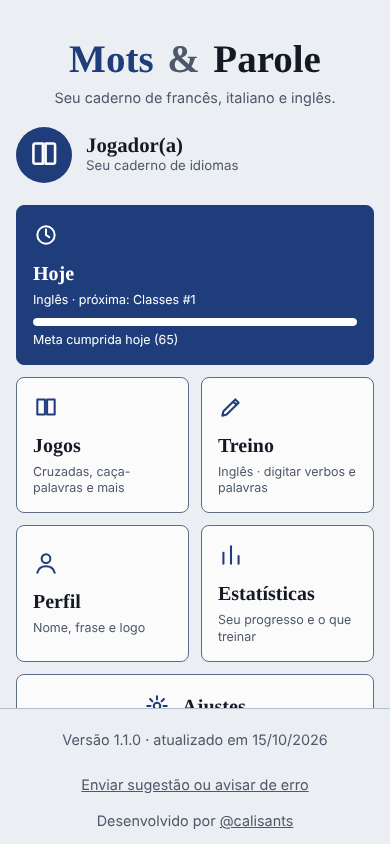
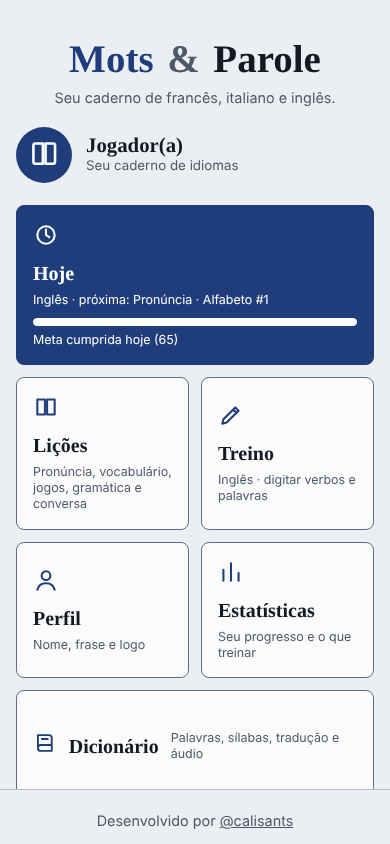
Treino: revisar palavras que errei; menu Lições; Hoje segue a trilha de aprendizado (revisão, palavras fracas, próxima lição)
Claude-Session: https://claude.ai/code/session_016zLFZSsmFk4gFpDYDLNisR

diff --git a/index.html b/index.html
@@ -359,7 +359,7 @@ svg{display:block}
       </div>
       <div class="tiles">
         <button type="button" class="tile today" id="go-today"><svg viewBox="0 0 24 24" width="26" height="26" fill="none" stroke="currentColor" stroke-width="1.9" stroke-linecap="round" stroke-linejoin="round" aria-hidden="true"><circle cx="12" cy="12" r="8"/><path d="M12 7v5l3 2"/></svg><b>Hoje</b><small id="today-sub">Revisão e uma página nova</small><span class="gbar" aria-hidden="true"><i id="goal-fill"></i></span><small id="goal-txt"></small></button>
-        <button type="button" class="tile" id="go-games"><svg viewBox="0 0 24 24" width="26" height="26" fill="none" stroke="currentColor" stroke-width="1.9" stroke-linecap="round" stroke-linejoin="round" aria-hidden="true"><path d="M4 5h7v14H4zM13 5h7v14h-7z"/></svg><b>Jogos</b><small>Cruzadas, caça-palavras e mais</small></button>
+        <button type="button" class="tile" id="go-games"><svg viewBox="0 0 24 24" width="26" height="26" fill="none" stroke="currentColor" stroke-width="1.9" stroke-linecap="round" stroke-linejoin="round" aria-hidden="true"><path d="M4 5h7v14H4zM13 5h7v14h-7z"/></svg><b>Lições</b><small>Pronúncia, vocabulário, jogos, gramática e conversa</small></button>
         <button type="button" class="tile" id="go-train"><svg viewBox="0 0 24 24" width="26" height="26" fill="none" stroke="currentColor" stroke-width="1.9" stroke-linecap="round" stroke-linejoin="round" aria-hidden="true"><path d="M4 20l4-1 11-11-3-3L5 16zM14 7l3 3"/></svg><b>Treino</b><small id="train-sub">Digitar verbos e palavras</small></button>
         <button type="button" class="tile" id="go-profile"><svg viewBox="0 0 24 24" width="26" height="26" fill="none" stroke="currentColor" stroke-width="1.9" stroke-linecap="round" stroke-linejoin="round" aria-hidden="true"><circle cx="12" cy="8" r="4"/><path d="M4 21c1-4 4-6 8-6s7 2 8 6"/></svg><b>Perfil</b><small>Nome, frase e logo</small></button>
         <button type="button" class="tile" id="go-stats"><svg viewBox="0 0 24 24" width="26" height="26" fill="none" stroke="currentColor" stroke-width="1.9" stroke-linecap="round" stroke-linejoin="round" aria-hidden="true"><path d="M5 20V10M12 20V4M19 20v-7"/></svg><b>Estatísticas</b><small>Seu progresso e o que treinar</small></button>
@@ -709,7 +709,7 @@ svg{display:block}
 <div id="toast" role="status" aria-live="polite" hidden></div>
 
 <script>
-const APP_REL={v:"1.4.0",d:"2026-10-17"};
+const APP_REL={v:"1.5.0",d:"2026-10-17"};
 
 
 const RAW={
@@ -1846,7 +1846,7 @@ function renderIndex(){
   const V=curVol();
   if(S.fGame!=="all"&&!V.types.some(t=>t[0]===S.fGame))S.fGame="all";
   $("#vol-title").textContent=LNAME[S.lang]+" · "+V.title;
-  $("#f-game").innerHTML='<option value="all">Todos os jogos</option>'+V.types.map(t=>'<option value="'+t[0]+'">'+esc(t[2])+"</option>").join("");
+  $("#f-game").innerHTML='<option value="all">Todos os tipos de lição</option>'+V.types.map(t=>'<option value="'+t[0]+'">'+esc(t[2])+"</option>").join("");
   $("#f-game").value=S.fGame;
   const num={};V.pages.forEach((p,i)=>{num[p.id]=i+1;});
   $("#f-theme").value=S.fTheme;$("#f-level").value=S.fLevel;
@@ -2788,7 +2788,7 @@ $("#gm-next").addEventListener("click",()=>{
   if(gm.review){
     sfx("done");
     openSheet("Revisão concluída",'<p class="help">'+(n-gm.miss)+" de "+n+" certas de primeira.</p>"+goalLine+
-      '<button type="button" class="btn primary wide" id="rv-next" style="margin-bottom:10px">Fazer a próxima página nova</button>'+list,true);
+      '<button type="button" class="btn primary wide" id="rv-next" style="margin-bottom:10px">Fazer a próxima lição</button>'+list,true);
     setStatus("#gm-status","Revisão concluída.","ok");return;
   }
   markDone();sfx("done");
@@ -2852,11 +2852,9 @@ function dueItems(max){
     const r=rvVocab(k);return {type:"vocab",id:r.id,it:vocabItem(r.e)};
   });
 }
-function nextNewPage(){return VOLUME4.pages.find(p=>!S.done[S.lang+":"+p.id])||null;}
 function renderToday(){
   const el=$("#today-sub");if(!el)return;
-  const d=dueCount(),np=nextNewPage();
-  el.textContent=LNAME[S.lang]+" · "+(d?d+" para revisar":(np?"próxima: "+VOLUME4.types.find(t=>t[0]===np.type)[2]+" #"+np.n:"tudo em dia"));
+  el.textContent=LNAME[S.lang]+" · "+planText();
   const n=dayN();
   $("#goal-fill").style.width=Math.min(100,Math.round(100*n/S.goal))+"%";
   $("#goal-txt").textContent=n>=S.goal?"Meta cumprida hoje ("+n+")":"Meta de hoje: "+n+" de "+S.goal;
@@ -2896,20 +2894,23 @@ function drillWord(){
 function startDrill(kind,tid){
   lastDrill={kind:kind,tid:tid};
   P={id:"treino",type:"treino",n:0};
-  showGame("Treino",LNAME[S.lang]+" · "+(kind==="v"?"verbos: "+DRILL.labels[S.lang][tid]:"palavras: português → "+LNAME[S.lang]));
+  showGame("Treino",LNAME[S.lang]+" · "+(kind==="v"?"verbos: "+DRILL.labels[S.lang][tid]:kind==="r"?"palavras que você errou":"palavras: português → "+LNAME[S.lang]));
   const items=[];
-  for(let i=0;i<10;i++)items.push(kind==="v"?drillConj(tid):drillWord());
+  if(kind==="r"){sh0(weakWords().slice(0,15)).slice(0,10).forEach(e=>{const it=vocabItem(e);it._force=true;items.push(it);});}
+  else for(let i=0;i<10;i++)items.push(kind==="v"?drillConj(tid):drillWord());
+  if(!items.length){openSheet("Nenhuma palavra errada","<p class=\"help\">Você não tem palavras erradas em "+esc(LNAME[S.lang])+" no momento. Continue as lições e as palavras que você errar aparecem aqui.</p>",false);return;}
   gm.items=items;gm.ids=items.map((_,i)=>"d|"+i);gm.types=items.map(()=>"drill");gm.review=false;gm.drill=true;gm.i=0;gm.miss=0;gm.open=false;
   loadGram();
 }
 STAGES.treino="#gstage";DOCKS.treino="gram";GAMEFN.treino=()=>lastDrill?startDrill(lastDrill.kind,lastDrill.tid):openTrainMenu();
 function openTrainMenu(){
-  const L=DRILL.labels[S.lang];
+  const L=DRILL.labels[S.lang],nw=weakWords().length;
   openSheet("Treino de "+LNAME[S.lang],
     '<p class="help">Idioma do treino (é o mesmo idioma do app):</p>'+
     '<div class="seg" role="group" aria-label="Idioma do treino" style="margin-bottom:12px">'+Object.keys(LNAME).map(l=>'<button type="button" data-trainlang="'+l+'" aria-pressed="'+(l===S.lang)+'">'+LNAME[l]+"</button>").join("")+"</div>"+
-    '<p class="help">Cada rodada tem 10 itens diferentes. Sem regra na tela: é para testar o que você já sabe. Erros de palavras entram na revisão.</p>'+
+    '<p class="help">Cada rodada tem 10 itens. Sem regra na tela: é para testar o que você já sabe. «Revisar palavras que errei» usa as palavras em que você errou mais do que acertou; cada acerto aqui as tira da lista.</p>'+
     Object.keys(L).map(t=>'<button type="button" class="btn wide" data-train="v|'+esc(t)+'" style="margin-bottom:8px">Verbos em '+esc(LNAME[S.lang])+": "+esc(L[t])+"</button>").join("")+
+    '<button type="button" class="btn wide" data-train="r" style="margin-bottom:8px"'+(nw?"":" disabled")+'>Revisar palavras que errei ('+nw+")</button>"+
     '<button type="button" class="btn wide" data-train="w" style="margin-bottom:8px">Palavras: português → '+esc(LNAME[S.lang])+"</button>",false);
 }
 function trainSub(){const e=$("#train-sub");if(e)e.textContent=LNAME[S.lang]+" · digitar verbos e palavras";}
@@ -2918,15 +2919,16 @@ $("#sheet-in").addEventListener("click",e=>{
   const tl=e.target.closest("[data-trainlang]");
   if(tl){S.lang=tl.dataset.trainlang;lastDrill=null;save();syncPrefs();renderIndex();trainSub();openTrainMenu();return;}
   const t=e.target.closest("[data-train]");
-  if(t){closeSheet();const v=t.dataset.train;if(v==="w")startDrill("w");else startDrill("v",v.slice(2));return;}
+  if(t){closeSheet();const v=t.dataset.train;if(v==="w")startDrill("w");else if(v==="r")startDrill("r");else startDrill("v",v.slice(2));return;}
   if(e.target.closest("#drill-more")){closeSheet();GAMEFN.treino();return;}
-  if(e.target.closest("#rv-next")){closeSheet();const np=nextNewPage();if(np){S.vol=4;S.fGame="all";save();startPage(np.id);}else go("home");}
+  if(e.target.closest("#rv-next")){closeSheet();const np=nextNewPage();if(np)startLesson(np);else go("home");}
 });
 function startToday(){
-  if(dueCount())return startReview();
-  const np=nextNewPage();
-  if(!np){openSheet("Tudo em dia","<p class=\"help\">Você concluiu todas as páginas de gramática em "+esc(LNAME[S.lang])+" e não há nada para revisar. Experimente o Treino, que gera itens novos a cada rodada.</p>",false);return;}
-  S.vol=4;S.fGame="all";save();startPage(np.id);
+  const pl=todayPlan();
+  if(pl.kind==="review")return startReview();
+  if(pl.kind==="weak")return startDrill("r");
+  if(pl.kind==="lesson")return startLesson(pl.ref);
+  openSheet("Tudo em dia","<p class=\"help\">Você concluiu todas as lições da trilha em "+esc(LNAME[S.lang])+" e não há nada para revisar. Experimente o Treino, que gera itens novos a cada rodada.</p>",false);
 }
 $("#go-today").addEventListener("click",startToday);
 /* meta diária nos ajustes */
@@ -3130,6 +3132,70 @@ function dictOpen(){
 $("#go-dict").addEventListener("click",dictOpen);
 $("#dict-lang").addEventListener("click",e=>{const b=e.target.closest("[data-dictlang]");if(!b)return;S.lang=b.dataset.dictlang;save();syncPrefs();dictOpen();});
 $("#dict-q").addEventListener("input",dictRender);
+
+/* ===== Trilha de aprendizado: o que "Hoje" sugere vem do progresso e dos erros da pessoa, não do último jogo aberto =====
+   Prioridade: 1) revisão espaçada vencida; 2) muitas palavras em que errou mais do que acertou; 3) próxima lição da trilha.
+   A trilha vai do mais fácil ao mais difícil: pronúncia → por grupo de temas (vocabulário do tema → jogos do tema) → gramática → conversação.
+   Lições de vocabulário cujas palavras a pessoa já domina (80%+ com 2 acertos ou mais) são puladas. */
+function wordsOf(p){
+  const arr=(VOCAB[S.lang]&&VOCAB[S.lang][p.cat])||[],K=p.K||2,n=arr.length;
+  return arr.slice(Math.round((p.part-1)*n/K),Math.round(p.part*n/K));
+}
+const VOCLESSON=["conheca","reco","completar","embaralhar","escreva"];
+let _path=null;
+function lessonPath(){
+  if(_path)return _path;
+  const M={};VOLUMES.forEach(v=>{M[v.id]=new Map(v.pages.map(p=>[p.id,p]));});
+  const out=[],add=(vid,id,extra)=>{const p=M[vid].get(id);if(p)out.push(Object.assign({vol:vid,page:p},extra||{}));};
+  VOLUME2.pages.forEach(p=>out.push({vol:2,page:p,audio:true}));
+  const gids=GROUPS.map(g=>g[0]).filter(g=>CATS.some(c=>c[2]===g));
+  const chunk=(arr,i,n)=>arr.slice(Math.round(i*arr.length/n),Math.round((i+1)*arr.length/n));
+  const gram=VOLUME4.pages,conv=[];
+  VOLUME3.pages.filter(p=>p.type==="frases").forEach(p=>conv.push(p));
+  const pairs=VOLUME3.pages.filter(p=>p.type==="sentence").map(s=>[s,M[3].get("resposta-"+s.n)]);
+  pairs.forEach(pr=>pr.forEach(p=>{if(p)conv.push(p);}));
+  gids.forEach((g,gi)=>{
+    CATS.filter(c=>c[2]===g).forEach(c=>{
+      VOLUME5.pages.filter(p=>p.cat===c[0]&&p.type==="conheca").forEach(p=>out.push({vol:5,page:p,voc:true}));
+      ["reco","completar","embaralhar","escreva"].forEach(t=>[1,2].forEach(k=>add(5,t+"-"+c[0]+"-"+k,{voc:true})));
+      add(1,"odd-"+c[0]);add(1,"search-"+c[0]+"-easy");add(1,"cross-"+c[0]+"-easy");
+    });
+    add(1,"connect-"+g+"-easy-1");
+    chunk(gram,gi,gids.length).forEach(p=>out.push({vol:4,page:p}));
+    chunk(conv,gi,gids.length).forEach(p=>out.push({vol:3,page:p}));
+  });
+  return(_path=out);
+}
+function pageMastered(p){
+  const sk=S.sk[S.lang]||{},ws=wordsOf(p);
+  if(!ws.length)return false;
+  const ok=ws.filter(e=>{const a=sk[e.w.toLowerCase()];return a&&a[0]>=2&&a[0]>a[1];}).length;
+  return ok/ws.length>=.8;
+}
+const canHear=()=>"speechSynthesis" in window;
+function nextNewPage(){
+  return lessonPath().find(r=>!S.done[S.lang+":"+r.page.id]&&!(r.audio&&!canHear())&&!(r.voc&&pageMastered(r.page)))||null;
+}
+function weakWords(){
+  const sk=S.sk[S.lang]||{},ix=vIdx()[S.lang],out=[];
+  for(const k in sk){const a=sk[k];if(a[1]>a[0]&&ix[k])out.push([a[1]-a[0],ix[k]]);}
+  return out.sort((x,y)=>y[0]-x[0]).map(x=>x[1]);
+}
+const WEAK_MIN=8;
+function todayPlan(){
+  const d=dueCount();if(d)return{kind:"review",n:d};
+  const w=weakWords().length;if(w>=WEAK_MIN)return{kind:"weak",n:w};
+  const r=nextNewPage();return r?{kind:"lesson",ref:r}:{kind:"done"};
+}
+function lessonName(r){
+  const V=VOLUMES.find(v=>v.id===r.vol),t=V.types.find(x=>x[0]===r.page.type);
+  return V.title.replace(/^Volume \d · /,"")+" · "+(t?t[2]:"")+" #"+r.page.n+(r.page.sub?" · "+r.page.sub:"");
+}
+function planText(){
+  const p=todayPlan();
+  return p.kind==="review"?p.n+" para revisar":p.kind==="weak"?"reforçar "+p.n+" palavras que errou":p.kind==="lesson"?"próxima: "+lessonName(p.ref):"tudo em dia";
+}
+function startLesson(r){S.vol=r.vol;S.fGame="all";S.fTheme="all";save();startPage(r.page.id);}
 
 /* ===== Início ===== */
 buildSettings();applyTheme();buildKb();go("home");

diff --git a/src/p10.js b/src/p10.js
@@ -54,11 +54,9 @@ function dueItems(max){
     const r=rvVocab(k);return {type:"vocab",id:r.id,it:vocabItem(r.e)};
   });
 }
-function nextNewPage(){return VOLUME4.pages.find(p=>!S.done[S.lang+":"+p.id])||null;}
 function renderToday(){
   const el=$("#today-sub");if(!el)return;
-  const d=dueCount(),np=nextNewPage();
-  el.textContent=LNAME[S.lang]+" · "+(d?d+" para revisar":(np?"próxima: "+VOLUME4.types.find(t=>t[0]===np.type)[2]+" #"+np.n:"tudo em dia"));
+  el.textContent=LNAME[S.lang]+" · "+planText();
   const n=dayN();
   $("#goal-fill").style.width=Math.min(100,Math.round(100*n/S.goal))+"%";
   $("#goal-txt").textContent=n>=S.goal?"Meta cumprida hoje ("+n+")":"Meta de hoje: "+n+" de "+S.goal;
@@ -98,20 +96,23 @@ function drillWord(){
 function startDrill(kind,tid){
   lastDrill={kind:kind,tid:tid};
   P={id:"treino",type:"treino",n:0};
-  showGame("Treino",LNAME[S.lang]+" · "+(kind==="v"?"verbos: "+DRILL.labels[S.lang][tid]:"palavras: português → "+LNAME[S.lang]));
+  showGame("Treino",LNAME[S.lang]+" · "+(kind==="v"?"verbos: "+DRILL.labels[S.lang][tid]:kind==="r"?"palavras que você errou":"palavras: português → "+LNAME[S.lang]));
   const items=[];
-  for(let i=0;i<10;i++)items.push(kind==="v"?drillConj(tid):drillWord());
+  if(kind==="r"){sh0(weakWords().slice(0,15)).slice(0,10).forEach(e=>{const it=vocabItem(e);it._force=true;items.push(it);});}
+  else for(let i=0;i<10;i++)items.push(kind==="v"?drillConj(tid):drillWord());
+  if(!items.length){openSheet("Nenhuma palavra errada","<p class=\"help\">Você não tem palavras erradas em "+esc(LNAME[S.lang])+" no momento. Continue as lições e as palavras que você errar aparecem aqui.</p>",false);return;}
   gm.items=items;gm.ids=items.map((_,i)=>"d|"+i);gm.types=items.map(()=>"drill");gm.review=false;gm.drill=true;gm.i=0;gm.miss=0;gm.open=false;
   loadGram();
 }
 STAGES.treino="#gstage";DOCKS.treino="gram";GAMEFN.treino=()=>lastDrill?startDrill(lastDrill.kind,lastDrill.tid):openTrainMenu();
 function openTrainMenu(){
-  const L=DRILL.labels[S.lang];
+  const L=DRILL.labels[S.lang],nw=weakWords().length;
   openSheet("Treino de "+LNAME[S.lang],
     '<p class="help">Idioma do treino (é o mesmo idioma do app):</p>'+
     '<div class="seg" role="group" aria-label="Idioma do treino" style="margin-bottom:12px">'+Object.keys(LNAME).map(l=>'<button type="button" data-trainlang="'+l+'" aria-pressed="'+(l===S.lang)+'">'+LNAME[l]+"</button>").join("")+"</div>"+
-    '<p class="help">Cada rodada tem 10 itens diferentes. Sem regra na tela: é para testar o que você já sabe. Erros de palavras entram na revisão.</p>'+
+    '<p class="help">Cada rodada tem 10 itens. Sem regra na tela: é para testar o que você já sabe. «Revisar palavras que errei» usa as palavras em que você errou mais do que acertou; cada acerto aqui as tira da lista.</p>'+
     Object.keys(L).map(t=>'<button type="button" class="btn wide" data-train="v|'+esc(t)+'" style="margin-bottom:8px">Verbos em '+esc(LNAME[S.lang])+": "+esc(L[t])+"</button>").join("")+
+    '<button type="button" class="btn wide" data-train="r" style="margin-bottom:8px"'+(nw?"":" disabled")+'>Revisar palavras que errei ('+nw+")</button>"+
     '<button type="button" class="btn wide" data-train="w" style="margin-bottom:8px">Palavras: português → '+esc(LNAME[S.lang])+"</button>",false);
 }
 function trainSub(){const e=$("#train-sub");if(e)e.textContent=LNAME[S.lang]+" · digitar verbos e palavras";}
@@ -120,15 +121,16 @@ $("#sheet-in").addEventListener("click",e=>{
   const tl=e.target.closest("[data-trainlang]");
   if(tl){S.lang=tl.dataset.trainlang;lastDrill=null;save();syncPrefs();renderIndex();trainSub();openTrainMenu();return;}
   const t=e.target.closest("[data-train]");
-  if(t){closeSheet();const v=t.dataset.train;if(v==="w")startDrill("w");else startDrill("v",v.slice(2));return;}
+  if(t){closeSheet();const v=t.dataset.train;if(v==="w")startDrill("w");else if(v==="r")startDrill("r");else startDrill("v",v.slice(2));return;}
   if(e.target.closest("#drill-more")){closeSheet();GAMEFN.treino();return;}
-  if(e.target.closest("#rv-next")){closeSheet();const np=nextNewPage();if(np){S.vol=4;S.fGame="all";save();startPage(np.id);}else go("home");}
+  if(e.target.closest("#rv-next")){closeSheet();const np=nextNewPage();if(np)startLesson(np);else go("home");}
 });
 function startToday(){
-  if(dueCount())return startReview();
-  const np=nextNewPage();
-  if(!np){openSheet("Tudo em dia","<p class=\"help\">Você concluiu todas as páginas de gramática em "+esc(LNAME[S.lang])+" e não há nada para revisar. Experimente o Treino, que gera itens novos a cada rodada.</p>",false);return;}
-  S.vol=4;S.fGame="all";save();startPage(np.id);
+  const pl=todayPlan();
+  if(pl.kind==="review")return startReview();
+  if(pl.kind==="weak")return startDrill("r");
+  if(pl.kind==="lesson")return startLesson(pl.ref);
+  openSheet("Tudo em dia","<p class=\"help\">Você concluiu todas as lições da trilha em "+esc(LNAME[S.lang])+" e não há nada para revisar. Experimente o Treino, que gera itens novos a cada rodada.</p>",false);
 }
 $("#go-today").addEventListener("click",startToday);
 /* meta diária nos ajustes */

diff --git a/src/p13.js b/src/p13.js
@@ -1,0 +1,63 @@
+/* ===== Trilha de aprendizado: o que "Hoje" sugere vem do progresso e dos erros da pessoa, não do último jogo aberto =====
+   Prioridade: 1) revisão espaçada vencida; 2) muitas palavras em que errou mais do que acertou; 3) próxima lição da trilha.
+   A trilha vai do mais fácil ao mais difícil: pronúncia → por grupo de temas (vocabulário do tema → jogos do tema) → gramática → conversação.
+   Lições de vocabulário cujas palavras a pessoa já domina (80%+ com 2 acertos ou mais) são puladas. */
+function wordsOf(p){
+  const arr=(VOCAB[S.lang]&&VOCAB[S.lang][p.cat])||[],K=p.K||2,n=arr.length;
+  return arr.slice(Math.round((p.part-1)*n/K),Math.round(p.part*n/K));
+}
+const VOCLESSON=["conheca","reco","completar","embaralhar","escreva"];
+let _path=null;
+function lessonPath(){
+  if(_path)return _path;
+  const M={};VOLUMES.forEach(v=>{M[v.id]=new Map(v.pages.map(p=>[p.id,p]));});
+  const out=[],add=(vid,id,extra)=>{const p=M[vid].get(id);if(p)out.push(Object.assign({vol:vid,page:p},extra||{}));};
+  VOLUME2.pages.forEach(p=>out.push({vol:2,page:p,audio:true}));
+  const gids=GROUPS.map(g=>g[0]).filter(g=>CATS.some(c=>c[2]===g));
+  const chunk=(arr,i,n)=>arr.slice(Math.round(i*arr.length/n),Math.round((i+1)*arr.length/n));
+  const gram=VOLUME4.pages,conv=[];
+  VOLUME3.pages.filter(p=>p.type==="frases").forEach(p=>conv.push(p));
+  const pairs=VOLUME3.pages.filter(p=>p.type==="sentence").map(s=>[s,M[3].get("resposta-"+s.n)]);
+  pairs.forEach(pr=>pr.forEach(p=>{if(p)conv.push(p);}));
+  gids.forEach((g,gi)=>{
+    CATS.filter(c=>c[2]===g).forEach(c=>{
+      VOLUME5.pages.filter(p=>p.cat===c[0]&&p.type==="conheca").forEach(p=>out.push({vol:5,page:p,voc:true}));
+      ["reco","completar","embaralhar","escreva"].forEach(t=>[1,2].forEach(k=>add(5,t+"-"+c[0]+"-"+k,{voc:true})));
+      add(1,"odd-"+c[0]);add(1,"search-"+c[0]+"-easy");add(1,"cross-"+c[0]+"-easy");
+    });
+    add(1,"connect-"+g+"-easy-1");
+    chunk(gram,gi,gids.length).forEach(p=>out.push({vol:4,page:p}));
+    chunk(conv,gi,gids.length).forEach(p=>out.push({vol:3,page:p}));
+  });
+  return(_path=out);
+}
+function pageMastered(p){
+  const sk=S.sk[S.lang]||{},ws=wordsOf(p);
+  if(!ws.length)return false;
+  const ok=ws.filter(e=>{const a=sk[e.w.toLowerCase()];return a&&a[0]>=2&&a[0]>a[1];}).length;
+  return ok/ws.length>=.8;
+}
+const canHear=()=>"speechSynthesis" in window;
+function nextNewPage(){
+  return lessonPath().find(r=>!S.done[S.lang+":"+r.page.id]&&!(r.audio&&!canHear())&&!(r.voc&&pageMastered(r.page)))||null;
+}
+function weakWords(){
+  const sk=S.sk[S.lang]||{},ix=vIdx()[S.lang],out=[];
+  for(const k in sk){const a=sk[k];if(a[1]>a[0]&&ix[k])out.push([a[1]-a[0],ix[k]]);}
+  return out.sort((x,y)=>y[0]-x[0]).map(x=>x[1]);
+}
+const WEAK_MIN=8;
+function todayPlan(){
+  const d=dueCount();if(d)return{kind:"review",n:d};
+  const w=weakWords().length;if(w>=WEAK_MIN)return{kind:"weak",n:w};
+  const r=nextNewPage();return r?{kind:"lesson",ref:r}:{kind:"done"};
+}
+function lessonName(r){
+  const V=VOLUMES.find(v=>v.id===r.vol),t=V.types.find(x=>x[0]===r.page.type);
+  return V.title.replace(/^Volume \d · /,"")+" · "+(t?t[2]:"")+" #"+r.page.n+(r.page.sub?" · "+r.page.sub:"");
+}
+function planText(){
+  const p=todayPlan();
+  return p.kind==="review"?p.n+" para revisar":p.kind==="weak"?"reforçar "+p.n+" palavras que errou":p.kind==="lesson"?"próxima: "+lessonName(p.ref):"tudo em dia";
+}
+function startLesson(r){S.vol=r.vol;S.fGame="all";S.fTheme="all";save();startPage(r.page.id);}

diff --git a/src/p2.html b/src/p2.html
@@ -16,7 +16,7 @@
       </div>
       <div class="tiles">
         <button type="button" class="tile today" id="go-today"><svg viewBox="0 0 24 24" width="26" height="26" fill="none" stroke="currentColor" stroke-width="1.9" stroke-linecap="round" stroke-linejoin="round" aria-hidden="true"><circle cx="12" cy="12" r="8"/><path d="M12 7v5l3 2"/></svg><b>Hoje</b><small id="today-sub">Revisão e uma página nova</small><span class="gbar" aria-hidden="true"><i id="goal-fill"></i></span><small id="goal-txt"></small></button>
-        <button type="button" class="tile" id="go-games"><svg viewBox="0 0 24 24" width="26" height="26" fill="none" stroke="currentColor" stroke-width="1.9" stroke-linecap="round" stroke-linejoin="round" aria-hidden="true"><path d="M4 5h7v14H4zM13 5h7v14h-7z"/></svg><b>Jogos</b><small>Cruzadas, caça-palavras e mais</small></button>
+        <button type="button" class="tile" id="go-games"><svg viewBox="0 0 24 24" width="26" height="26" fill="none" stroke="currentColor" stroke-width="1.9" stroke-linecap="round" stroke-linejoin="round" aria-hidden="true"><path d="M4 5h7v14H4zM13 5h7v14h-7z"/></svg><b>Lições</b><small>Pronúncia, vocabulário, jogos, gramática e conversa</small></button>
         <button type="button" class="tile" id="go-train"><svg viewBox="0 0 24 24" width="26" height="26" fill="none" stroke="currentColor" stroke-width="1.9" stroke-linecap="round" stroke-linejoin="round" aria-hidden="true"><path d="M4 20l4-1 11-11-3-3L5 16zM14 7l3 3"/></svg><b>Treino</b><small id="train-sub">Digitar verbos e palavras</small></button>
         <button type="button" class="tile" id="go-profile"><svg viewBox="0 0 24 24" width="26" height="26" fill="none" stroke="currentColor" stroke-width="1.9" stroke-linecap="round" stroke-linejoin="round" aria-hidden="true"><circle cx="12" cy="8" r="4"/><path d="M4 21c1-4 4-6 8-6s7 2 8 6"/></svg><b>Perfil</b><small>Nome, frase e logo</small></button>
         <button type="button" class="tile" id="go-stats"><svg viewBox="0 0 24 24" width="26" height="26" fill="none" stroke="currentColor" stroke-width="1.9" stroke-linecap="round" stroke-linejoin="round" aria-hidden="true"><path d="M5 20V10M12 20V4M19 20v-7"/></svg><b>Estatísticas</b><small>Seu progresso e o que treinar</small></button>

diff --git a/src/p3.js b/src/p3.js
@@ -268,7 +268,7 @@ function renderIndex(){
   const V=curVol();
   if(S.fGame!=="all"&&!V.types.some(t=>t[0]===S.fGame))S.fGame="all";
   $("#vol-title").textContent=LNAME[S.lang]+" · "+V.title;
-  $("#f-game").innerHTML='<option value="all">Todos os jogos</option>'+V.types.map(t=>'<option value="'+t[0]+'">'+esc(t[2])+"</option>").join("");
+  $("#f-game").innerHTML='<option value="all">Todos os tipos de lição</option>'+V.types.map(t=>'<option value="'+t[0]+'">'+esc(t[2])+"</option>").join("");
   $("#f-game").value=S.fGame;
   const num={};V.pages.forEach((p,i)=>{num[p.id]=i+1;});
   $("#f-theme").value=S.fTheme;$("#f-level").value=S.fLevel;

diff --git a/src/p9.js b/src/p9.js
@@ -127,7 +127,7 @@ $("#gm-next").addEventListener("click",()=>{
   if(gm.review){
     sfx("done");
     openSheet("Revisão concluída",'<p class="help">'+(n-gm.miss)+" de "+n+" certas de primeira.</p>"+goalLine+
-      '<button type="button" class="btn primary wide" id="rv-next" style="margin-bottom:10px">Fazer a próxima página nova</button>'+list,true);
+      '<button type="button" class="btn primary wide" id="rv-next" style="margin-bottom:10px">Fazer a próxima lição</button>'+list,true);
     setStatus("#gm-status","Revisão concluída.","ok");return;
   }
   markDone();sfx("done");

diff --git a/sw.js b/sw.js
@@ -1,6 +1,6 @@
 // Service worker do Mots & Parole: guarda o app no aparelho para funcionar sem internet.
 // Ao publicar uma versão nova do index.html, troque o número em CACHE (v6 -> v7, e APP_VERSION no index.html).
-const CACHE = "mots-parole-v28"; // só o cache muda; a chave do LocalStorage (APP_VERSION) segue v6 para não apagar o progresso
+const CACHE = "mots-parole-v29"; // só o cache muda; a chave do LocalStorage (APP_VERSION) segue v6 para não apagar o progresso
 const ASSETS = [
   "./",
   "./index.html",

diff --git a/src/version.js b/src/version.js
@@ -1,1 +1,1 @@
-const APP_REL={v:"1.4.0",d:"2026-10-17"};
+const APP_REL={v:"1.5.0",d:"2026-10-17"};

diff --git a/src/tests/t16.py b/src/tests/t16.py
@@ -1,0 +1,43 @@
+"""Testa: trilha de aprendizado em Hoje, treino de palavras erradas, nome «Lições».
+Uso (na pasta src/):  python3 -I tests/t16.py"""
+import subprocess,time,os
+from playwright.sync_api import sync_playwright
+root=os.path.abspath(os.path.join(os.path.dirname(__file__),'..','..'))
+srv=subprocess.Popen(['python3','-m','http.server','8773','-d',root],stdout=subprocess.DEVNULL,stderr=subprocess.DEVNULL);time.sleep(1)
+try:
+  with sync_playwright() as p:
+    b=p.chromium.launch();pg=b.new_context(viewport={'width':390,'height':844}).new_page();errs=[]
+    pg.on('pageerror',lambda e:errs.append(str(e)));pg.on('console',lambda m:errs.append(m.text) if m.type=='error' else None)
+    pg.goto('http://localhost:8773/index.html');pg.wait_for_timeout(700)
+    assert 'Lições' in pg.inner_text('#go-games') and 'Jogos' not in pg.inner_text('#go-games')
+    r=pg.evaluate("()=>{const P=lessonPath();const ids=P.map(r=>r.vol+':'+r.page.id);const c={};P.forEach(r=>c[r.vol]=(c[r.vol]||0)+1);return {n:P.length,dup:ids.length-new Set(ids).size,c}}");print(r);assert r['dup']==0 and r['n']>250
+    # trilha: começa pela pronúncia; depois vocabulário do 1º tema; não depende do último jogo aberto
+    pg.evaluate("()=>{S.lang='fr';S.done={};S.rv={};S.rvv={};S.sk={};save()}")
+    s=pg.evaluate("()=>planText()");print(s);assert 'Pronúncia' in s
+    pg.evaluate("()=>{lessonPath().filter(r=>r.vol===2).forEach(r=>S.done['fr:'+r.page.id]=1)}")
+    s=pg.evaluate("()=>planText()");print(s);assert 'Vocabulário · Conheça #1' in s and 'Cumprimentos' in s
+    pg.evaluate("()=>{S.vol=1;startPage('cross-comida-adv');go('home')}")  # último jogo aberto: outro tema/jogo
+    assert pg.evaluate("()=>planText()")==s,'não pode mudar pelo último jogo aberto'
+    # domínio das palavras: pula a lição de vocabulário
+    pg.evaluate("()=>{const p=lessonPath().find(r=>r.page.id==='conheca-saudacoes-1').page;wordsOf(p).forEach(e=>{S.sk.fr=S.sk.fr||{};S.sk.fr[e.w.toLowerCase()]=[3,0,'x']})}")
+    s2=pg.evaluate("()=>planText()");print(s2);assert 'Conheça #1' not in s2
+    # palavras erradas
+    pg.click('#go-train');assert pg.is_disabled('[data-train=r]') or True
+    pg.evaluate("()=>closeSheet()")
+    pg.evaluate("()=>{S.sk={fr:{}};const ws=Object.values(VOCAB.fr).flat().slice(0,12);ws.forEach(e=>{S.sk.fr[e.w.toLowerCase()]=[0,2,e.pt]});save()}")
+    assert pg.evaluate("()=>weakWords().length")==12
+    assert pg.evaluate("()=>todayPlan().kind")=='weak' and 'reforçar 12' in pg.evaluate("()=>planText()")
+    pg.evaluate("()=>{S.rvv['fr:v|bonjour']=[Date.now()-1,0,0]}");assert pg.evaluate("()=>todayPlan().kind")=='review','revisão vencida vem antes'
+    pg.evaluate("()=>{S.rvv={}}")
+    pg.click('#go-train');assert not pg.is_disabled('[data-train=r]') and 'Revisar palavras que errei (12)' in pg.inner_text('#sheet-in')
+    pg.click('[data-train=r]');pg.wait_for_timeout(300)
+    n=pg.evaluate("()=>[gm.items.length,gm.drill,gm.items.every(i=>i._force)]");print(n);assert n==[10,True,True]
+    wk=pg.evaluate("()=>weakWords().map(e=>e.w.toLowerCase())")
+    ans=pg.evaluate("()=>gm.items[0].ok[0]");k=pg.evaluate("()=>gm.items[0].k.toLowerCase()")
+    pg.fill('#gm-typed',ans);pg.click('#gm-submit');assert 'Certo' in pg.inner_text('#gm-status')
+    h=pg.evaluate("(k)=>S.sk.fr[k]",k);print('após acerto',h);assert h[0]==1
+    # sem palavras erradas: botão desligado
+    pg.evaluate("()=>{S.sk={};closeSheet();go('home')}");pg.click('#go-train');assert pg.is_disabled('[data-train=r]') and '(0)' in pg.inner_text('#sheet-in')
+    print('erros:',errs);assert not errs
+    b.close()
+finally: srv.terminate()

diff --git a/src/build.py b/src/build.py
@@ -7,7 +7,7 @@ r = lambda f: open(f, encoding='utf8').read()
 v, d = r('VERSION').split()
 open('version.js', 'w', encoding='utf8').write('const APP_REL={v:"%s",d:"%s"};\n' % (v, d))
 JS = ['version.js','data.js','content.js','content2.js','content3.js','content4.js','content5.js','content6.js',
-      'sil.js','pron.js','sons.js','p3.js','p4.js','p5.js','p6.js','p7.js','p9.js','p10.js','p11.js','p12.js','p8.js']
+      'sil.js','pron.js','sons.js','p3.js','p4.js','p5.js','p6.js','p7.js','p9.js','p10.js','p11.js','p12.js','p13.js','p8.js']
 built = r('p1.html') + "\n" + r('p2.html') + "\n<script>\n" + "\n".join(r(f) for f in JS) + "\n</script>\n"
 open('mots-parole-v4.html', 'w', encoding='utf8').write(built)
 idx = r('../index.html')
